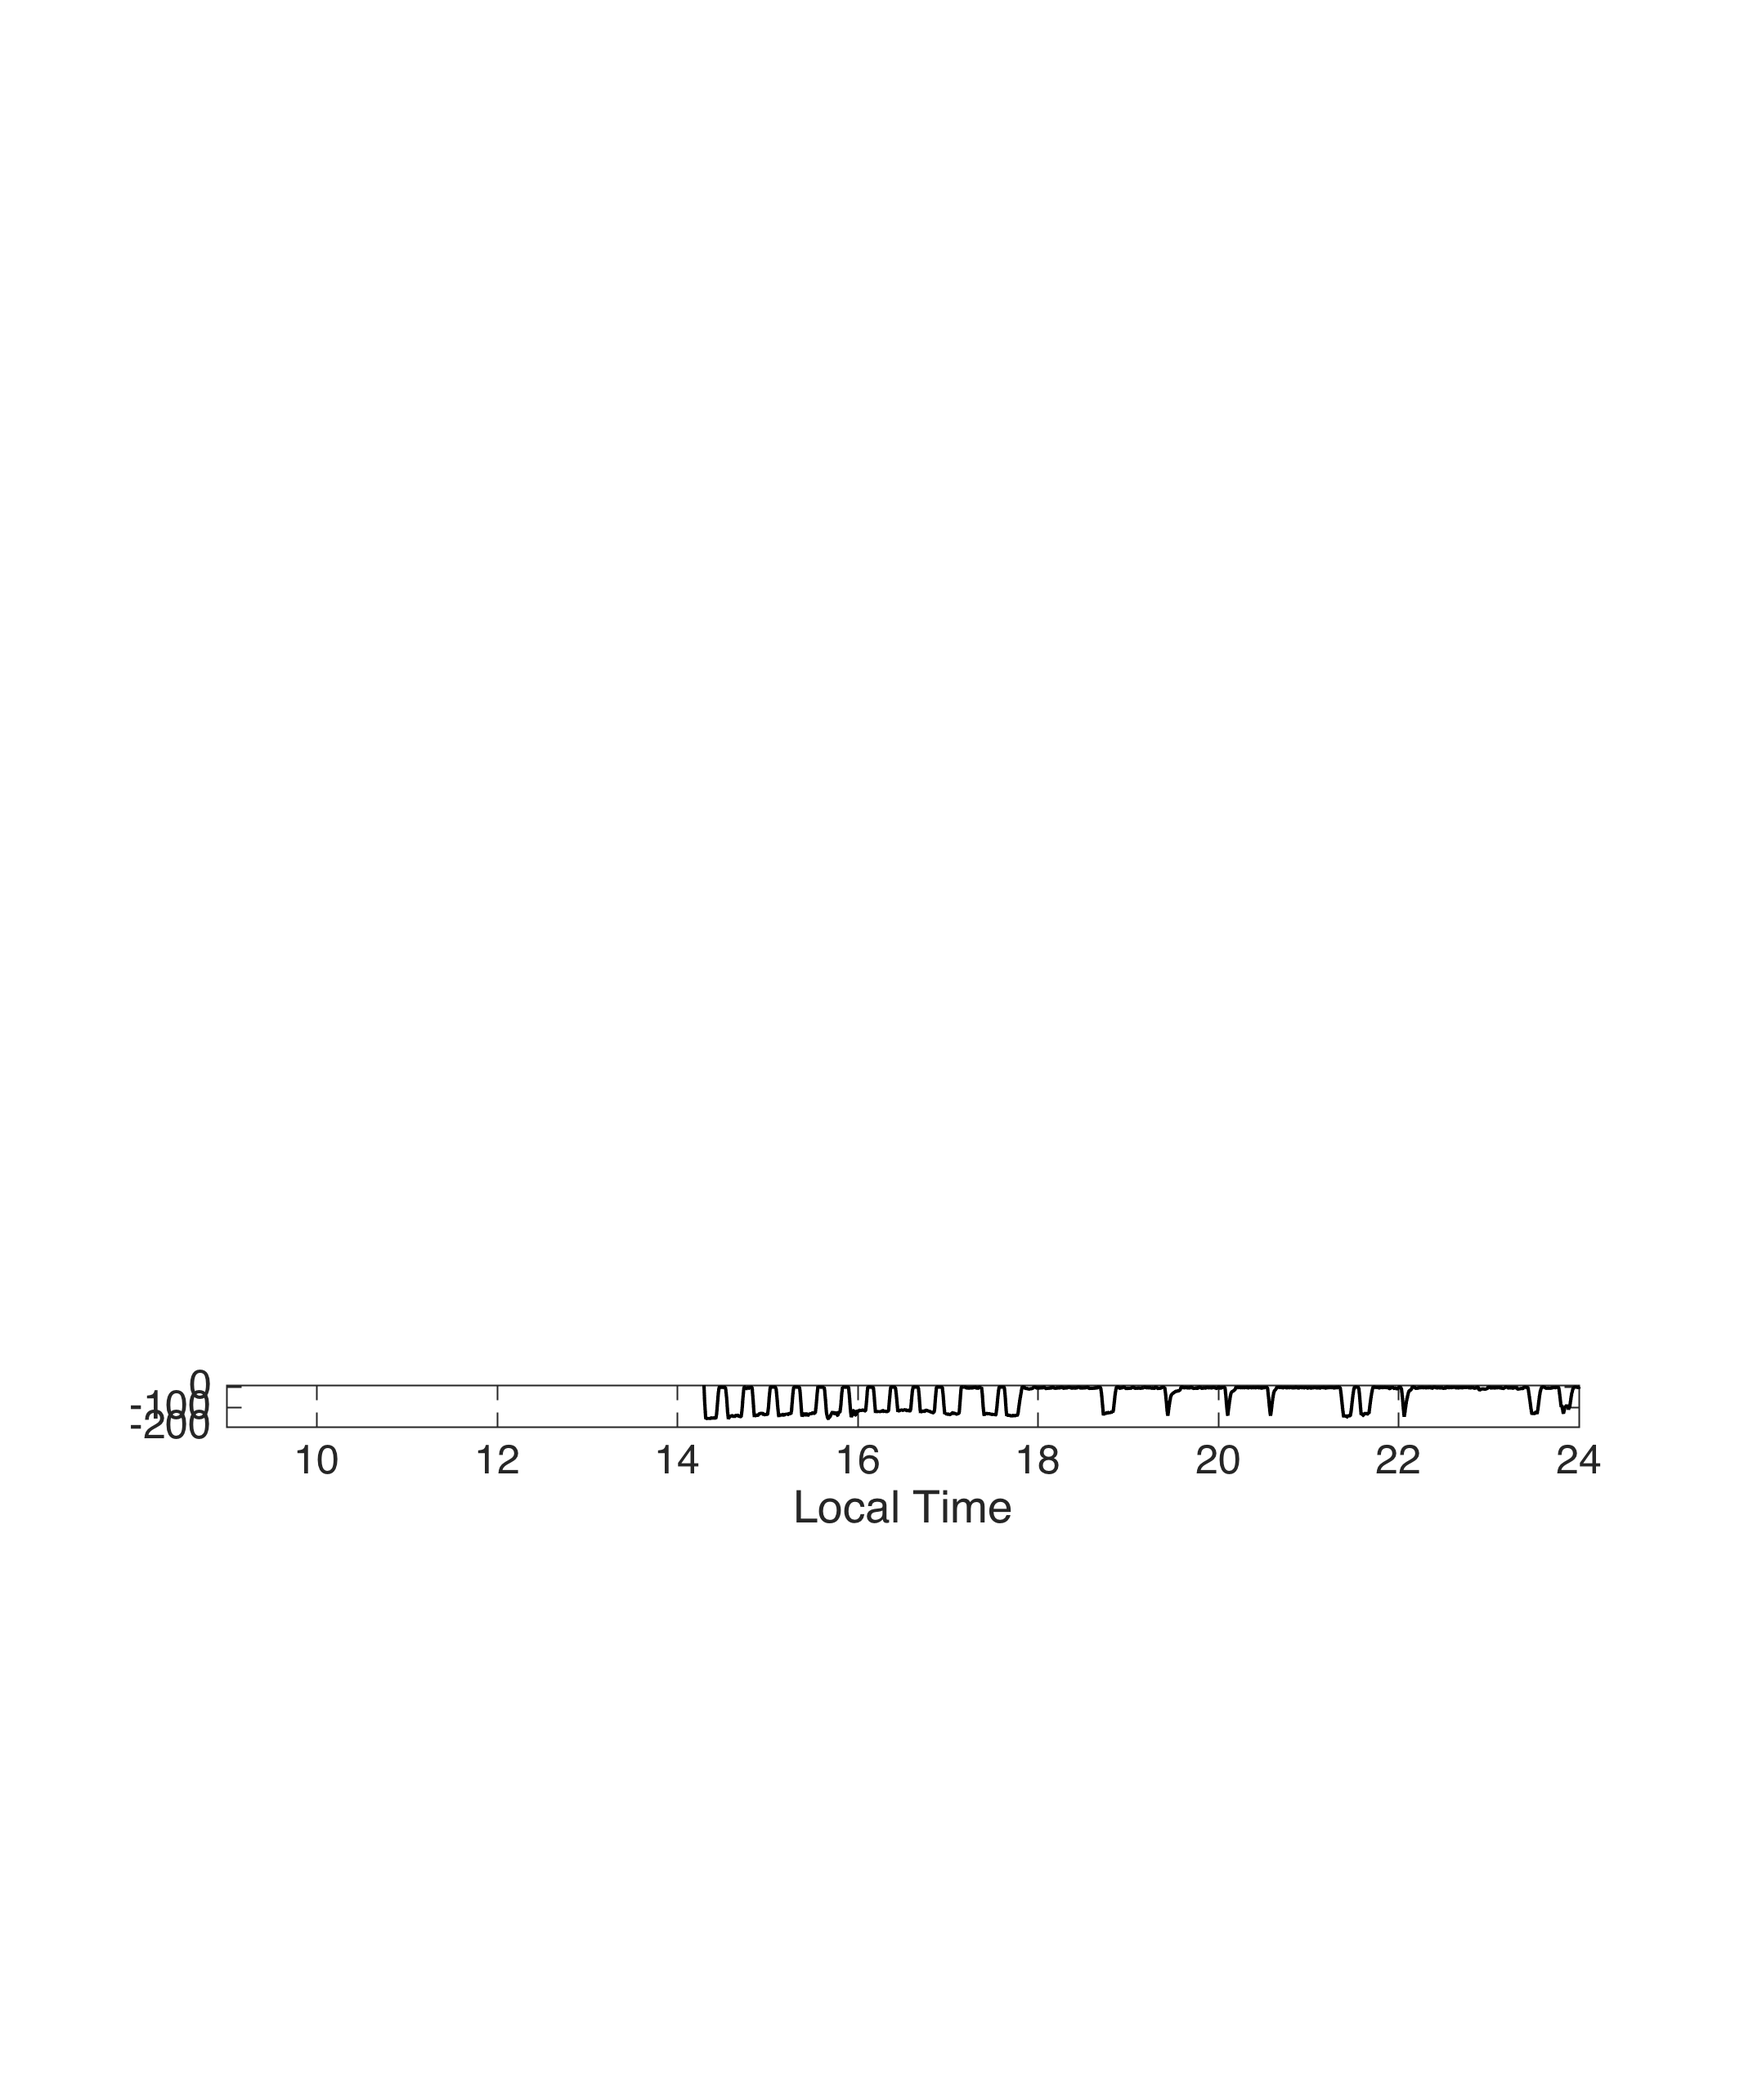
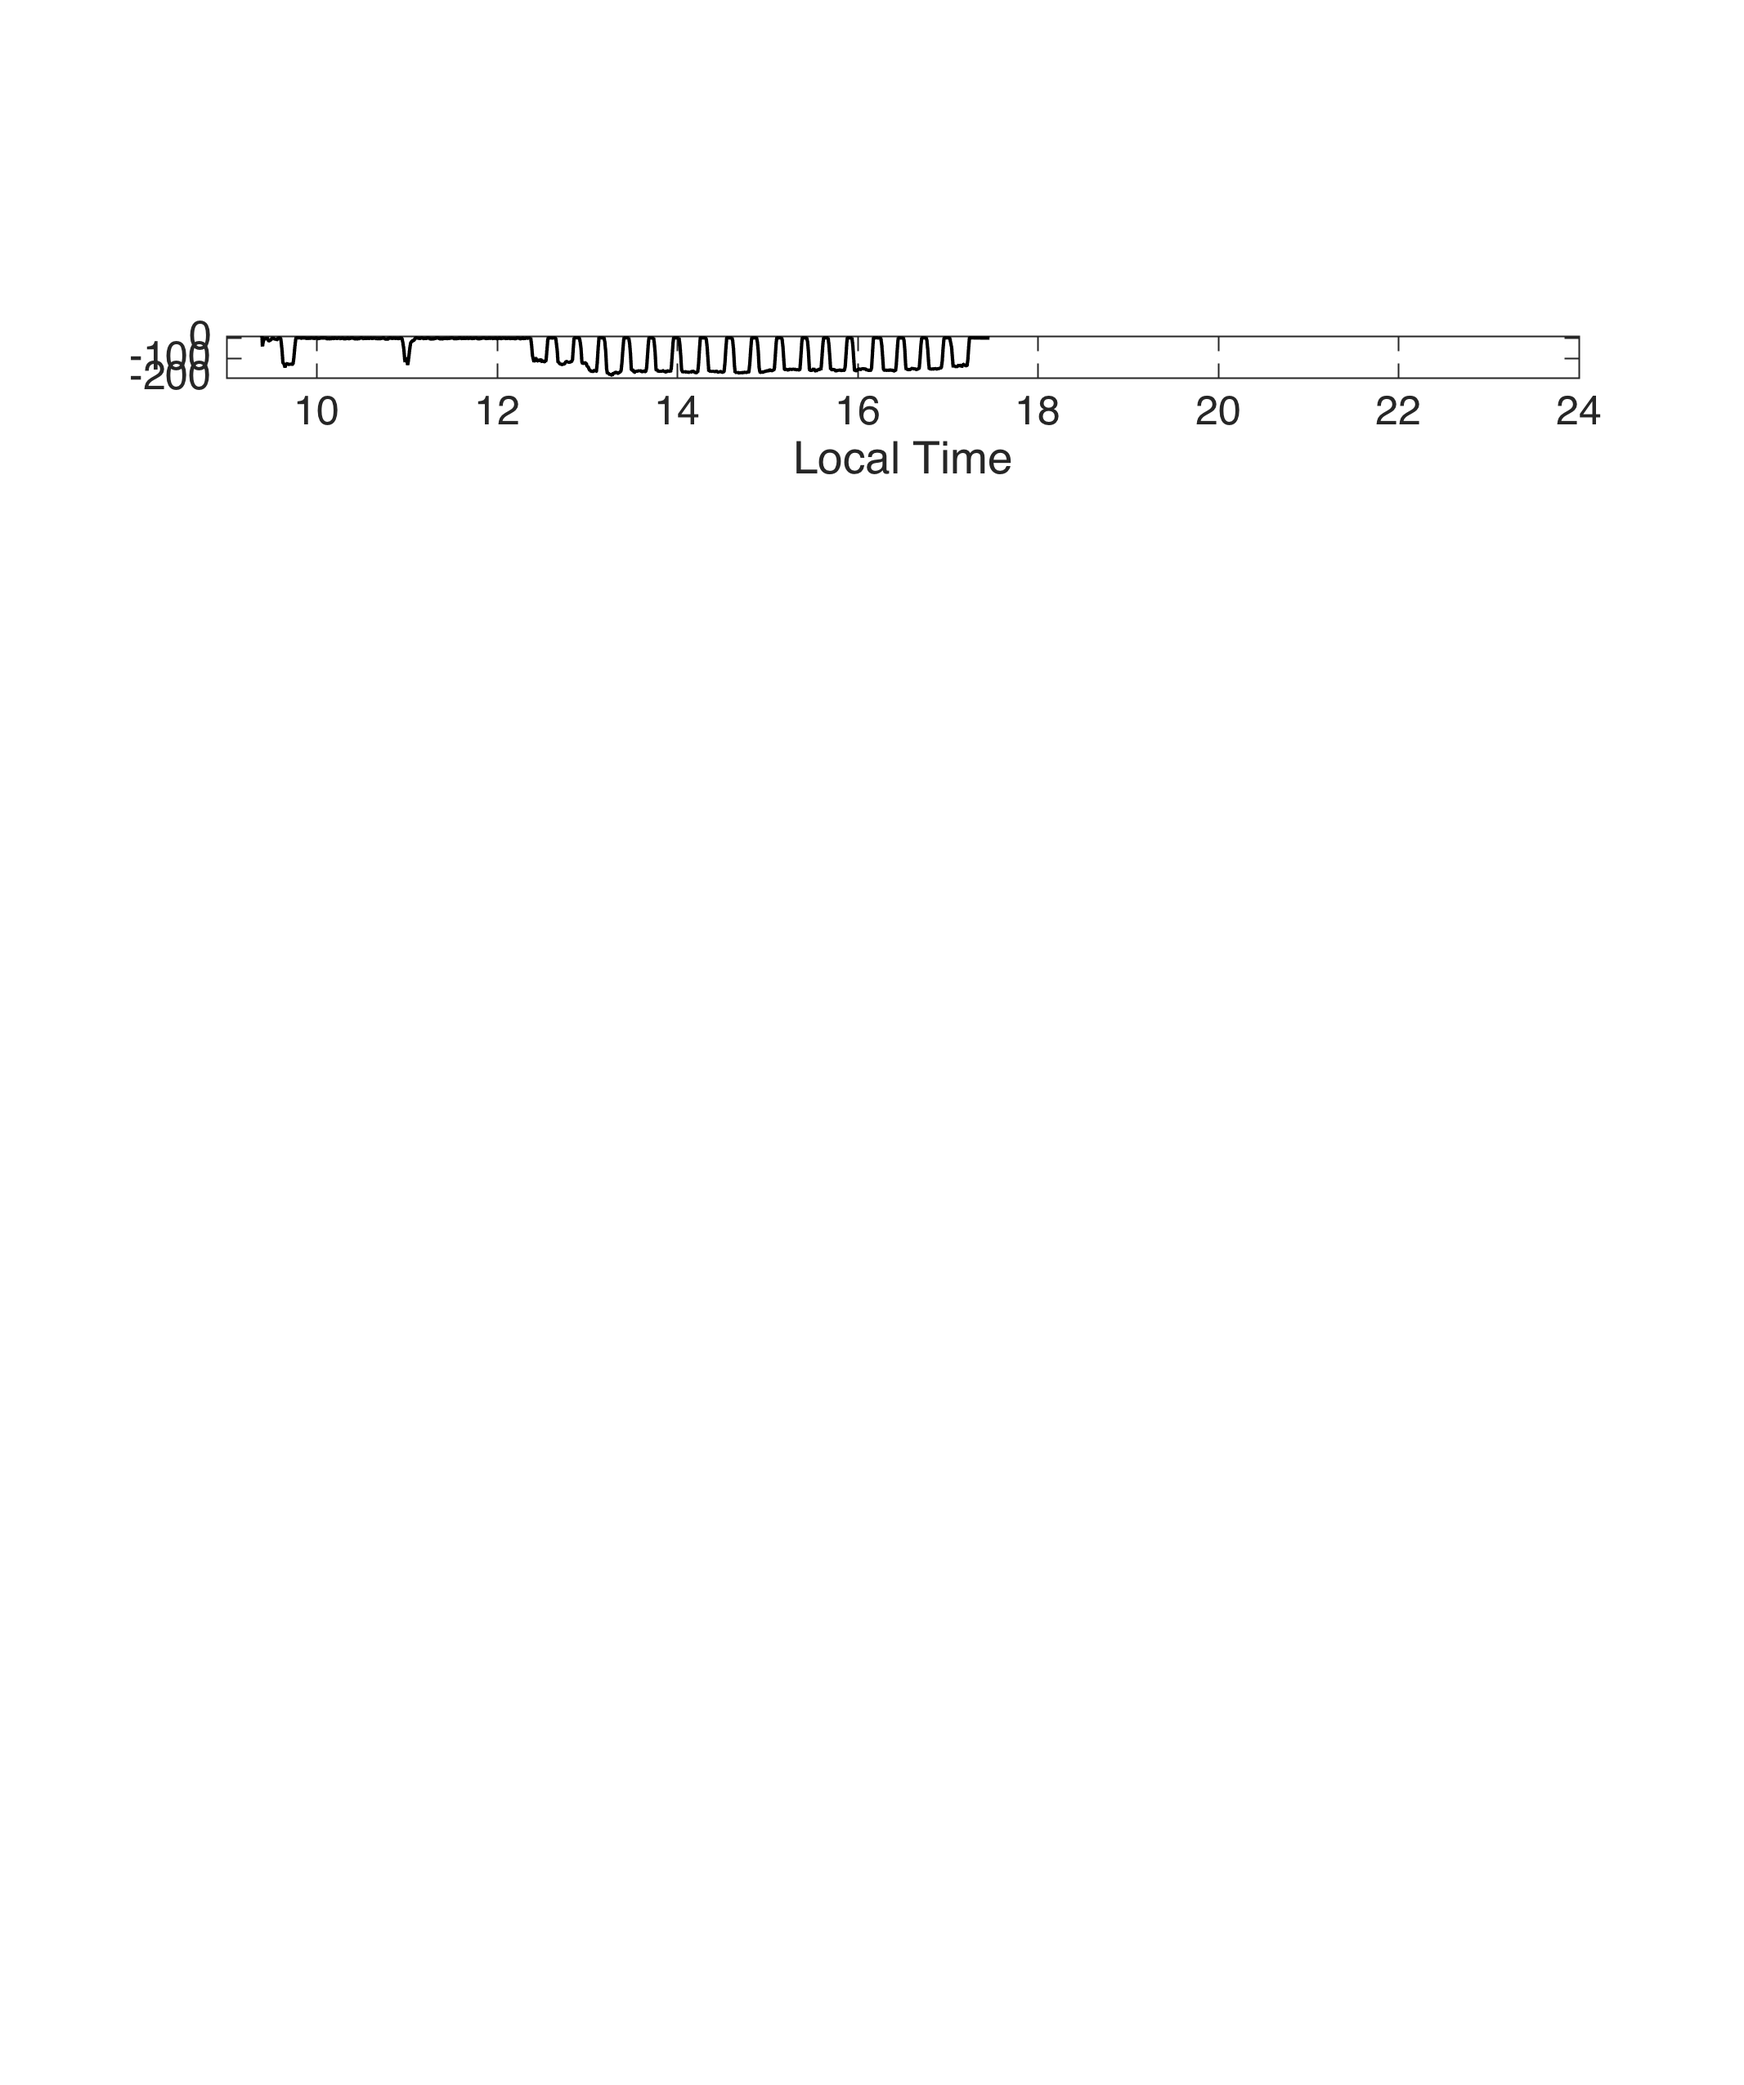
add foraging and travel times, filtered volume through time

diff --git a/NARW_plotAlldives.m b/NARW_plotAlldives.m
@@ -6,7 +6,7 @@ close all
 % tags is deployment name, time of tag on, cue of tag off
 load('NARW_foraging_tags')
 
-for i = 8 %1:length(tags)
+for i = 10; % 1:length(tags)
     tag = tags{i};
     loadprh(tag);
     
@@ -26,70 +26,83 @@ for i = 8 %1:length(tags)
     % how many dives > 50 m
     T = finddives(p,fs,50,1);
     % mean(T(:,2)-T(:,1))/60
-    % pause
     
-    % plot by time of day
-    figure(100), subplot(length(tags),1,i), hold on, box on
-    UTC = tags{i,2}(4:end);
-    hh=plot((UTC(1)+UTC(2)/60+UTC(3)/3600)+[1:length(p)]/fs/3600,-p,'k','LineWidth',1);
-    ylim([-200 10]), xlim([9 24])
+    % import flow speed for the tag
+    load(['/Users/julievanderhoop/Dropbox (Personal)/tag/tagdata/' tag '_flowspeed.mat'])
     
-    figure(101), subplot(length(tags),1,i), hold on, box on
-    plot(t,-p,'k'), ylim([-200 10]), xlim([0 11.7]) % xmax of tags
+    NARW_FilteredVol
     
-    NARW_plotalldens
-    NARW_divepauseplot
-    
-    for k = 1:size(T,1) % all dives on a tag
-        if isempty(dive(k).stops) == 0
-            figure(11), subplot(2,2,1), hold on
-            plot(ddur(k)/60,size(dive(k).stops,1),'o')
-            xlabel('Dive Duration (min)'), ylabel('Number of fluking bouts')
-            subplot(2,2,2), hold on
-            errorbar(ddur(k)/60,mean([dive(k).clearingtime]),std([dive(k).clearingtime]),'o')
-            xlabel('Dive Duration (min)'), ylabel('Duration of fluking bouts (sec)')
-            subplot(2,2,3), hold on
-            plot(ddur(k)/60,tags{i,6},'o')
-            xlabel('Dive Duration (min)'), ylabel('Age (years)')
-            subplot(2,2,4), hold on
-            errorbar(tags{i,6},mean([dive(k).vperblock]),std([dive(k).vperblock]),'o')
-            xlabel('Age (years)'), ylabel('Volume filtered per fluking interval (m^3)')
-        end
-        
-        
-        if isempty(dive(k).btm) == 1 && sum(tag ~= 'eg05_210b') ~= 0 % if there's no bottom and if it's not dives 1-11 in this tag
-            % descent speed
-            phase_speed(k,1) = nanmean(dive(k).flowEst(round((T(k,1)+5:T(k,4))-T(k,1)+1)));
-            phase_pitch(k,1) = nanmean(rad2deg(pitch((T(k,1):T(k,4))*fs)));
-            % ascent speed
-            phase_speed(k,2) = nanmean(dive(k).flowEst(round((T(k,4):T(k,2)-10)-T(k,1))));
-            phase_pitch(k,2) = nanmean(rad2deg(pitch((T(k,4):T(k,2))*fs)));
-        end
-        
-        if dive(k).btm > 1
-            % descent speed
-            phase_speed(k,1) = nanmean(dive(k).flowEst(5:dive(k).btm(1)));
-            phase_pitch(k,1) = mean(rad2deg(pitch(round(dcue(1:dive(k).btm(1))*fs))));
-            % ascent speed
-            if find(isinf(dive(k).flowEst),1,'last') < 10
-                phase_speed(k,2) = nanmean(dive(k).flowEst(dive(k).btm(end):end));
-            else
-                phase_speed(k,2) = nanmean(dive(k).flowEst(dive(k).btm(end):find(isinf(dive(k).flowEst(5:end)) == 1,1,'first')));
-            end
-            phase_pitch(k,2) = mean(rad2deg(pitch(round(dcue(dive(k).btm(end):end)*fs))));
-            % bottom speed
-            phase_speed(k,3) = nanmean(dive(k).flowEst(dive(k).btm));
-        end
-        F(k) = isempty(dive(k).btm); % store that 
+    figure(24), hold on
+    for k = 1:length(dive)
+        plot(dive(k).stops(:,2)-dive(k).stops(:,1),dive(k).vperblock,'o')
     end
-    tags{i,7} = phase_speed;
-    tags{i,8} = phase_pitch; 
-    tags{i,9} = F; 
+    xlabel('Duration of fluking bout (sec)'), ylabel('Volume filtered m^3')
     
-    if i < 10
-        keep tags i % to remove carry-over of variables
-    end
 end
+return
+
+% plot by time of day
+figure(100), subplot(length(tags),1,i), hold on, box on
+UTC = tags{i,2}(4:end);
+hh=plot((UTC(1)+UTC(2)/60+UTC(3)/3600)+[1:length(p)]/fs/3600,-p,'k','LineWidth',1);
+ylim([-200 10]), xlim([9 24])
+
+figure(101), subplot(length(tags),1,i), hold on, box on
+plot(t,-p,'k'), ylim([-200 10]), xlim([0 11.7]) % xmax of tags
+
+NARW_plotalldens
+NARW_divepauseplot
+
+for k = 1:size(T,1) % all dives on a tag
+    if isempty(dive(k).stops) == 0
+        figure(11), subplot(2,2,1), hold on
+        plot(ddur(k)/60,size(dive(k).stops,1),'o')
+        xlabel('Dive Duration (min)'), ylabel('Number of fluking bouts')
+        subplot(2,2,2), hold on
+        errorbar(ddur(k)/60,mean([dive(k).clearingtime]),std([dive(k).clearingtime]),'o')
+        xlabel('Dive Duration (min)'), ylabel('Duration of fluking bouts (sec)')
+        subplot(2,2,3), hold on
+        plot(ddur(k)/60,tags{i,6},'o')
+        xlabel('Dive Duration (min)'), ylabel('Age (years)')
+        subplot(2,2,4), hold on
+        errorbar(tags{i,6},mean([dive(k).vperblock]),std([dive(k).vperblock]),'o')
+        xlabel('Age (years)'), ylabel('Volume filtered per fluking interval (m^3)')
+    end
+    
+    
+    if isempty(dive(k).btm) == 1 && sum(tag ~= 'eg05_210b') ~= 0 % if there's no bottom and if it's not dives 1-11 in this tag
+        % descent speed
+        phase_speed(k,1) = nanmean(dive(k).flowEst(round((T(k,1)+5:T(k,4))-T(k,1)+1)));
+        phase_pitch(k,1) = nanmean(rad2deg(pitch((T(k,1):T(k,4))*fs)));
+        % ascent speed
+        phase_speed(k,2) = nanmean(dive(k).flowEst(round((T(k,4):T(k,2)-10)-T(k,1))));
+        phase_pitch(k,2) = nanmean(rad2deg(pitch((T(k,4):T(k,2))*fs)));
+    end
+    
+    if dive(k).btm > 1
+        % descent speed
+        phase_speed(k,1) = nanmean(dive(k).flowEst(5:dive(k).btm(1)));
+        phase_pitch(k,1) = mean(rad2deg(pitch(round(dcue(1:dive(k).btm(1))*fs))));
+        % ascent speed
+        if find(isinf(dive(k).flowEst),1,'last') < 10
+            phase_speed(k,2) = nanmean(dive(k).flowEst(dive(k).btm(end):end));
+        else
+            phase_speed(k,2) = nanmean(dive(k).flowEst(dive(k).btm(end):find(isinf(dive(k).flowEst(5:end)) == 1,1,'first')));
+        end
+        phase_pitch(k,2) = mean(rad2deg(pitch(round(dcue(dive(k).btm(end):end)*fs))));
+        % bottom speed
+        phase_speed(k,3) = nanmean(dive(k).flowEst(dive(k).btm));
+    end
+    F(k) = isempty(dive(k).btm); % store that
+end
+tags{i,7} = phase_speed;
+tags{i,8} = phase_pitch;
+tags{i,9} = F;
+
+if i < 10
+    keep tags i % to remove carry-over of variables
+end
+% end
 
 
 

diff --git a/NARW_plotalldens.m b/NARW_plotalldens.m
@@ -1,7 +1,4 @@
 % NARW_plotalldens
-clear dive 
-% import flow speed for the tag
-load(['/Users/julievanderhoop/Dropbox (Personal)/tag/tagdata/' tag '_flowspeed.mat'])
 
 % calculate dive duration
 ddur = T(:,2)-T(:,1);
